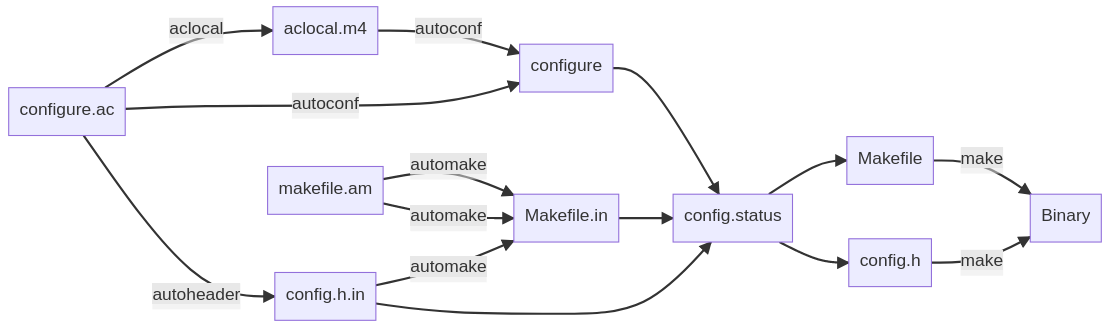
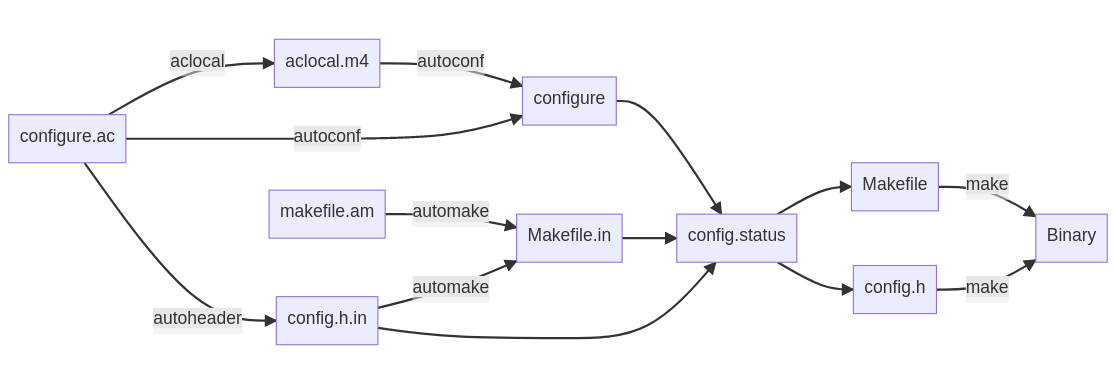
Update 2022-09-29-construire-postgresql-avec-meson.md

diff --git a/content/fr/posts/2022-09-29-construire-postgresql-avec-meson.md b/content/fr/posts/2022-09-29-construire-postgresql-avec-meson.md
@@ -30,8 +30,8 @@ amoureux et amoureuses du libre se tournent résolument vers l'avenir.
 ## En finir avec autoconf
 
 Un système de construction ou _build system_ (ne vous y trompez pas, j'ai une
-préférence pour la dénomination anglaise) est un ensemble d'instructions,
-compris par un langage propre, qui facilite la compilation d'un logiciel. Les
+préférence pour la dénomination anglaise) est un ensemble d'instructions dans
+une syntaxe qui lui est propre, qui facilite la compilation d'un logiciel. Les
 ramifications d'un projet, les dépendances et les librairies ou tout simplement
 l'outillage interne, deviennent inexorablement la rançon d'une complexité après
 plusieurs décennies d'existence.
@@ -92,7 +92,6 @@ graph LR
     M4 --\>|autoconf| C
 
     Am[makefile.am] --\>|automake| Mi[Makefile.in]
-    Am --\>|automake| Mi
     Ch --\>|automake| Mi
 
     C --\> Cs[config.status]
